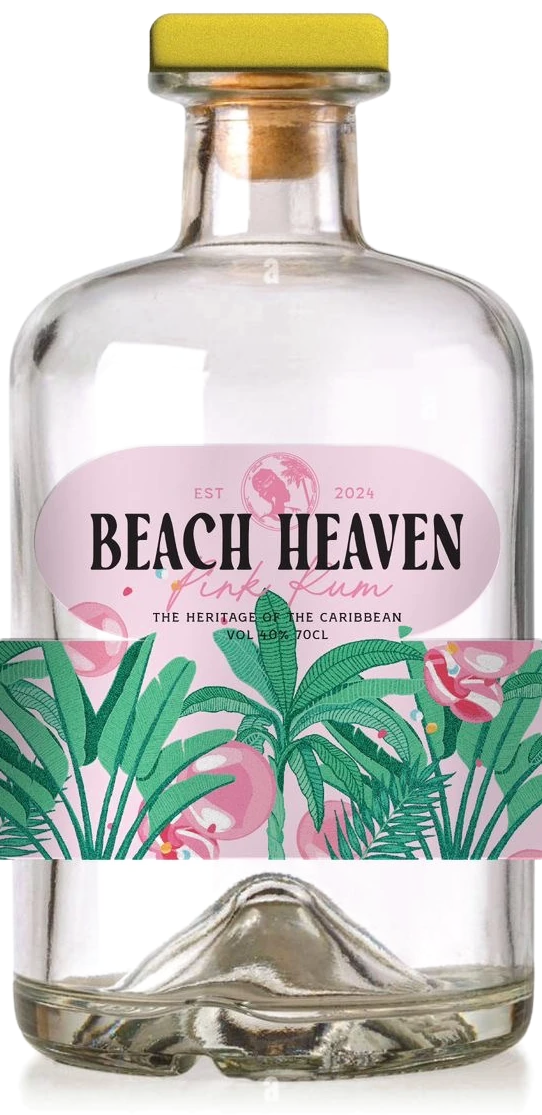
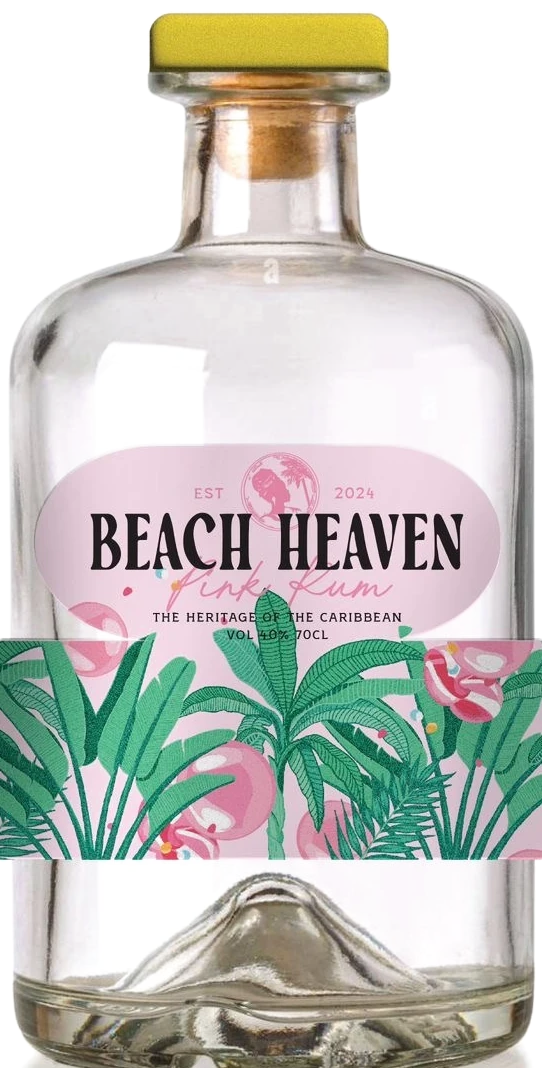
Hero: palm terrace backdrop without cart, big bottle trio
Claude-Session: https://claude.ai/code/session_01JBSJb3fwJRXjsZcwQ8Fu1o

diff --git a/index.html b/index.html
@@ -13,7 +13,7 @@
 <meta name="theme-color" content="#FCF8F4">
 <link rel="icon" href="/favicon.ico?v=2" sizes="any"><link rel="icon" href="/favicon-48.png?v=2" type="image/png" sizes="48x48"><link rel="icon" href="/icon-192.png?v=2" type="image/png" sizes="192x192"><link rel="apple-touch-icon" href="/apple-touch-icon.png?v=2">
 <link rel="preload" href="/assets/fonts/playfair-display-latin-900-normal.woff2" as="font" type="font/woff2" crossorigin>
-<link rel="stylesheet" href="/assets/css/site.css?v=16">
+<link rel="stylesheet" href="/assets/css/site.css?v=18">
 <script>try{var v=localStorage.getItem("bh_age_ok")||sessionStorage.getItem("bh_age_ok");if(!(v&&parseInt(v,10)>Date.now()))document.documentElement.classList.add("needs-gate")}catch(e){document.documentElement.classList.add("needs-gate")}</script>
 <script type="application/ld+json">{"@context":"https://schema.org","@type":"Organization","name":"Beach Heaven","url":"https://beachheavenrum.com/","logo":"https://beachheavenrum.com/assets/img/wordmark.png","foundingDate":"2025"}</script>
 </head>
@@ -63,9 +63,9 @@
     <div class="cta"><a class="btn" href="#blends">Meet the blends</a><a class="btn alt" href="/wholesale/">Wholesale enquiries</a></div>
   </div>
   <div class="trio" aria-hidden="false">
-    <div class="bottle b1"><img class="bimg " src="/assets/img/bottle-pink.webp?v=16" width="542" height="1115" alt="Beach Heaven Pink Dream rum, 70 cl bottle"></div>
-    <div class="bottle b2"><img class="bimg " src="/assets/img/bottle-lychee.webp?v=16" width="542" height="1115" alt="Beach Heaven Lychee Bliss rum, 70 cl bottle"></div>
-    <div class="bottle b3"><img class="bimg " src="/assets/img/bottle-spiced.webp?v=16" width="542" height="1115" alt="Beach Heaven Spiced Velvet rum, 70 cl bottle"></div>
+    <div class="bottle b1"><img class="bimg " src="/assets/img/bottle-pink.webp?v=18" width="542" height="1068" alt="Beach Heaven Pink Dream rum, 70 cl bottle"></div>
+    <div class="bottle b2"><img class="bimg " src="/assets/img/bottle-lychee.webp?v=18" width="542" height="1068" alt="Beach Heaven Lychee Bliss rum, 70 cl bottle"></div>
+    <div class="bottle b3"><img class="bimg " src="/assets/img/bottle-spiced.webp?v=18" width="542" height="1068" alt="Beach Heaven Spiced Velvet rum, 70 cl bottle"></div>
     <img class="nuts" src="/assets/img/coconuts.svg" alt="" aria-hidden="true">
   </div>
 </div><div class="wave w-cream" aria-hidden="true"></div></section>
@@ -75,15 +75,15 @@
   <p>Each blend has its own colour, flavour and label. All three are 37.5% vol. in a 70 cl bottle.</p></div>
   <div class="cards">
 <a class="card pink" href="/pink-dream/">
-  <div class="art" style="background-image:linear-gradient(180deg,#F9BFDD00 55%,#F9BFDD 100%),url(/assets/img/tile-pink.jpg)"><img class="bimg " src="/assets/img/bottle-pink.webp?v=16" width="542" height="1115" alt="Beach Heaven Pink Dream rum, 70 cl bottle"></div>
+  <div class="art" style="background-image:linear-gradient(180deg,#F9BFDD00 55%,#F9BFDD 100%),url(/assets/img/tile-pink.jpg)"><img class="bimg " src="/assets/img/bottle-pink.webp?v=18" width="542" height="1068" alt="Beach Heaven Pink Dream rum, 70 cl bottle"></div>
   <div class="body"><p class="tag">Rum-based tropical spirit drink</p><h3>Pink Dream</h3><p>Hibiscus-led, floral and softly sweet.</p><span class="more">Discover &rarr;</span></div>
 </a>
 <a class="card lychee" href="/lychee-bliss/">
-  <div class="art" style="background-image:linear-gradient(180deg,#F9AF8F00 55%,#F9AF8F 100%),url(/assets/img/tile-lychee.jpg)"><img class="bimg " src="/assets/img/bottle-lychee.webp?v=16" width="542" height="1115" alt="Beach Heaven Lychee Bliss rum, 70 cl bottle"></div>
+  <div class="art" style="background-image:linear-gradient(180deg,#F9AF8F00 55%,#F9AF8F 100%),url(/assets/img/tile-lychee.jpg)"><img class="bimg " src="/assets/img/bottle-lychee.webp?v=18" width="542" height="1068" alt="Beach Heaven Lychee Bliss rum, 70 cl bottle"></div>
   <div class="body"><p class="tag">Rum-based tropical spirit drink</p><h3>Lychee Bliss</h3><p>Ripe lychee, bright citrus and a crisp finish.</p><span class="more">Discover &rarr;</span></div>
 </a>
 <a class="card spiced" href="/spiced-velvet/">
-  <div class="art" style="background-image:linear-gradient(180deg,#96DBC700 55%,#96DBC7 100%),url(/assets/img/tile-spiced.jpg)"><img class="bimg " src="/assets/img/bottle-spiced.webp?v=16" width="542" height="1115" alt="Beach Heaven Spiced Velvet rum, 70 cl bottle"></div>
+  <div class="art" style="background-image:linear-gradient(180deg,#96DBC700 55%,#96DBC7 100%),url(/assets/img/tile-spiced.jpg)"><img class="bimg " src="/assets/img/bottle-spiced.webp?v=18" width="542" height="1068" alt="Beach Heaven Spiced Velvet rum, 70 cl bottle"></div>
   <div class="body"><p class="tag">Rum-based tropical spirit drink</p><h3>Spiced Velvet</h3><p>Deep amber, smooth, with orange and lime brightness.</p><span class="more">Discover &rarr;</span></div>
 </a>
   </div>
@@ -158,5 +158,5 @@
   </div>
   <div class="legal"><span>Enjoy responsibly. For adults of legal drinking age only. Beach Heaven is a product of Kroonbrau BV, Amsterdam.</span><span>&copy; 2026 Beach Heaven</span></div>
 </div></footer>
-<script src="/assets/js/site.js?v=16" defer></script>
+<script src="/assets/js/site.js?v=18" defer></script>
 </body></html>

diff --git a/lychee-bliss/index.html b/lychee-bliss/index.html
@@ -13,7 +13,7 @@
 <meta name="theme-color" content="#FCF8F4">
 <link rel="icon" href="/favicon.ico?v=2" sizes="any"><link rel="icon" href="/favicon-48.png?v=2" type="image/png" sizes="48x48"><link rel="icon" href="/icon-192.png?v=2" type="image/png" sizes="192x192"><link rel="apple-touch-icon" href="/apple-touch-icon.png?v=2">
 <link rel="preload" href="/assets/fonts/playfair-display-latin-900-normal.woff2" as="font" type="font/woff2" crossorigin>
-<link rel="stylesheet" href="/assets/css/site.css?v=16">
+<link rel="stylesheet" href="/assets/css/site.css?v=18">
 <script>try{var v=localStorage.getItem("bh_age_ok")||sessionStorage.getItem("bh_age_ok");if(!(v&&parseInt(v,10)>Date.now()))document.documentElement.classList.add("needs-gate")}catch(e){document.documentElement.classList.add("needs-gate")}</script>
 <script type="application/ld+json">{"@context":"https://schema.org","@type":"Organization","name":"Beach Heaven","url":"https://beachheavenrum.com/","logo":"https://beachheavenrum.com/assets/img/wordmark.png","foundingDate":"2025"}</script>
 </head>
@@ -63,7 +63,7 @@
     <ul class="chips"><li>37.5% vol.</li><li>70 cl</li><li>Lychee</li><li>Lemon</li><li>Lime</li><li>Cucumber</li><li>Ginger</li></ul>
     <div class="cta" style="display:flex;gap:14px;flex-wrap:wrap"><a class="btn" href="/wholesale/">Wholesale enquiry</a><a class="btn alt" href="#others">Other blends</a></div>
   </div>
-  <div class="sku-art"><div class="bg" style="background-image:linear-gradient(180deg,#F9AF8F33,#F9AF8F00 60%),url(/assets/img/tile-lychee.jpg)"></div><img class="bimg " src="/assets/img/bottle-lychee.webp?v=16" width="542" height="1115" alt="Beach Heaven Lychee Bliss rum, 70 cl bottle"></div>
+  <div class="sku-art"><div class="bg" style="background-image:linear-gradient(180deg,#F9AF8F33,#F9AF8F00 60%),url(/assets/img/tile-lychee.jpg)"></div><img class="bimg " src="/assets/img/bottle-lychee.webp?v=18" width="542" height="1068" alt="Beach Heaven Lychee Bliss rum, 70 cl bottle"></div>
 </div><div class="wave w-cream" aria-hidden="true"></div></section>
 
 <section><div class="wrap detail">
@@ -84,11 +84,11 @@
   <div class="sec-head"><p class="eyebrow">Keep exploring</p><h2>The other blends.</h2></div>
   <div class="cards">
 <a class="card pink" href="/pink-dream/">
-  <div class="art" style="background-image:linear-gradient(180deg,#F9BFDD00 55%,#F9BFDD 100%),url(/assets/img/tile-pink.jpg)"><img class="bimg " src="/assets/img/bottle-pink.webp?v=16" width="542" height="1115" alt="Beach Heaven Pink Dream rum, 70 cl bottle"></div>
+  <div class="art" style="background-image:linear-gradient(180deg,#F9BFDD00 55%,#F9BFDD 100%),url(/assets/img/tile-pink.jpg)"><img class="bimg " src="/assets/img/bottle-pink.webp?v=18" width="542" height="1068" alt="Beach Heaven Pink Dream rum, 70 cl bottle"></div>
   <div class="body"><p class="tag">Rum-based tropical spirit drink</p><h3>Pink Dream</h3><p>Hibiscus-led, floral and softly sweet.</p><span class="more">Discover &rarr;</span></div>
 </a>
 <a class="card spiced" href="/spiced-velvet/">
-  <div class="art" style="background-image:linear-gradient(180deg,#96DBC700 55%,#96DBC7 100%),url(/assets/img/tile-spiced.jpg)"><img class="bimg " src="/assets/img/bottle-spiced.webp?v=16" width="542" height="1115" alt="Beach Heaven Spiced Velvet rum, 70 cl bottle"></div>
+  <div class="art" style="background-image:linear-gradient(180deg,#96DBC700 55%,#96DBC7 100%),url(/assets/img/tile-spiced.jpg)"><img class="bimg " src="/assets/img/bottle-spiced.webp?v=18" width="542" height="1068" alt="Beach Heaven Spiced Velvet rum, 70 cl bottle"></div>
   <div class="body"><p class="tag">Rum-based tropical spirit drink</p><h3>Spiced Velvet</h3><p>Deep amber, smooth, with orange and lime brightness.</p><span class="more">Discover &rarr;</span></div>
 </a>
   </div>
@@ -104,5 +104,5 @@
   </div>
   <div class="legal"><span>Enjoy responsibly. For adults of legal drinking age only. Beach Heaven is a product of Kroonbrau BV, Amsterdam.</span><span>&copy; 2026 Beach Heaven</span></div>
 </div></footer>
-<script src="/assets/js/site.js?v=16" defer></script>
+<script src="/assets/js/site.js?v=18" defer></script>
 </body></html>

diff --git a/pink-dream/index.html b/pink-dream/index.html
@@ -13,7 +13,7 @@
 <meta name="theme-color" content="#FCF8F4">
 <link rel="icon" href="/favicon.ico?v=2" sizes="any"><link rel="icon" href="/favicon-48.png?v=2" type="image/png" sizes="48x48"><link rel="icon" href="/icon-192.png?v=2" type="image/png" sizes="192x192"><link rel="apple-touch-icon" href="/apple-touch-icon.png?v=2">
 <link rel="preload" href="/assets/fonts/playfair-display-latin-900-normal.woff2" as="font" type="font/woff2" crossorigin>
-<link rel="stylesheet" href="/assets/css/site.css?v=16">
+<link rel="stylesheet" href="/assets/css/site.css?v=18">
 <script>try{var v=localStorage.getItem("bh_age_ok")||sessionStorage.getItem("bh_age_ok");if(!(v&&parseInt(v,10)>Date.now()))document.documentElement.classList.add("needs-gate")}catch(e){document.documentElement.classList.add("needs-gate")}</script>
 <script type="application/ld+json">{"@context":"https://schema.org","@type":"Organization","name":"Beach Heaven","url":"https://beachheavenrum.com/","logo":"https://beachheavenrum.com/assets/img/wordmark.png","foundingDate":"2025"}</script>
 </head>
@@ -63,7 +63,7 @@
     <ul class="chips"><li>37.5% vol.</li><li>70 cl</li><li>Hibiscus</li><li>Grapefruit</li><li>Blueberry</li></ul>
     <div class="cta" style="display:flex;gap:14px;flex-wrap:wrap"><a class="btn" href="/wholesale/">Wholesale enquiry</a><a class="btn alt" href="#others">Other blends</a></div>
   </div>
-  <div class="sku-art"><div class="bg" style="background-image:linear-gradient(180deg,#F9BFDD33,#F9BFDD00 60%),url(/assets/img/tile-pink.jpg)"></div><img class="bimg " src="/assets/img/bottle-pink.webp?v=16" width="542" height="1115" alt="Beach Heaven Pink Dream rum, 70 cl bottle"></div>
+  <div class="sku-art"><div class="bg" style="background-image:linear-gradient(180deg,#F9BFDD33,#F9BFDD00 60%),url(/assets/img/tile-pink.jpg)"></div><img class="bimg " src="/assets/img/bottle-pink.webp?v=18" width="542" height="1068" alt="Beach Heaven Pink Dream rum, 70 cl bottle"></div>
 </div><div class="wave w-cream" aria-hidden="true"></div></section>
 
 <section><div class="wrap detail">
@@ -84,11 +84,11 @@
   <div class="sec-head"><p class="eyebrow">Keep exploring</p><h2>The other blends.</h2></div>
   <div class="cards">
 <a class="card lychee" href="/lychee-bliss/">
-  <div class="art" style="background-image:linear-gradient(180deg,#F9AF8F00 55%,#F9AF8F 100%),url(/assets/img/tile-lychee.jpg)"><img class="bimg " src="/assets/img/bottle-lychee.webp?v=16" width="542" height="1115" alt="Beach Heaven Lychee Bliss rum, 70 cl bottle"></div>
+  <div class="art" style="background-image:linear-gradient(180deg,#F9AF8F00 55%,#F9AF8F 100%),url(/assets/img/tile-lychee.jpg)"><img class="bimg " src="/assets/img/bottle-lychee.webp?v=18" width="542" height="1068" alt="Beach Heaven Lychee Bliss rum, 70 cl bottle"></div>
   <div class="body"><p class="tag">Rum-based tropical spirit drink</p><h3>Lychee Bliss</h3><p>Ripe lychee, bright citrus and a crisp finish.</p><span class="more">Discover &rarr;</span></div>
 </a>
 <a class="card spiced" href="/spiced-velvet/">
-  <div class="art" style="background-image:linear-gradient(180deg,#96DBC700 55%,#96DBC7 100%),url(/assets/img/tile-spiced.jpg)"><img class="bimg " src="/assets/img/bottle-spiced.webp?v=16" width="542" height="1115" alt="Beach Heaven Spiced Velvet rum, 70 cl bottle"></div>
+  <div class="art" style="background-image:linear-gradient(180deg,#96DBC700 55%,#96DBC7 100%),url(/assets/img/tile-spiced.jpg)"><img class="bimg " src="/assets/img/bottle-spiced.webp?v=18" width="542" height="1068" alt="Beach Heaven Spiced Velvet rum, 70 cl bottle"></div>
   <div class="body"><p class="tag">Rum-based tropical spirit drink</p><h3>Spiced Velvet</h3><p>Deep amber, smooth, with orange and lime brightness.</p><span class="more">Discover &rarr;</span></div>
 </a>
   </div>
@@ -104,5 +104,5 @@
   </div>
   <div class="legal"><span>Enjoy responsibly. For adults of legal drinking age only. Beach Heaven is a product of Kroonbrau BV, Amsterdam.</span><span>&copy; 2026 Beach Heaven</span></div>
 </div></footer>
-<script src="/assets/js/site.js?v=16" defer></script>
+<script src="/assets/js/site.js?v=18" defer></script>
 </body></html>

diff --git a/spiced-velvet/index.html b/spiced-velvet/index.html
@@ -13,7 +13,7 @@
 <meta name="theme-color" content="#FCF8F4">
 <link rel="icon" href="/favicon.ico?v=2" sizes="any"><link rel="icon" href="/favicon-48.png?v=2" type="image/png" sizes="48x48"><link rel="icon" href="/icon-192.png?v=2" type="image/png" sizes="192x192"><link rel="apple-touch-icon" href="/apple-touch-icon.png?v=2">
 <link rel="preload" href="/assets/fonts/playfair-display-latin-900-normal.woff2" as="font" type="font/woff2" crossorigin>
-<link rel="stylesheet" href="/assets/css/site.css?v=16">
+<link rel="stylesheet" href="/assets/css/site.css?v=18">
 <script>try{var v=localStorage.getItem("bh_age_ok")||sessionStorage.getItem("bh_age_ok");if(!(v&&parseInt(v,10)>Date.now()))document.documentElement.classList.add("needs-gate")}catch(e){document.documentElement.classList.add("needs-gate")}</script>
 <script type="application/ld+json">{"@context":"https://schema.org","@type":"Organization","name":"Beach Heaven","url":"https://beachheavenrum.com/","logo":"https://beachheavenrum.com/assets/img/wordmark.png","foundingDate":"2025"}</script>
 </head>
@@ -63,7 +63,7 @@
     <ul class="chips"><li>37.5% vol.</li><li>70 cl</li><li>Orange</li><li>Lime</li></ul>
     <div class="cta" style="display:flex;gap:14px;flex-wrap:wrap"><a class="btn" href="/wholesale/">Wholesale enquiry</a><a class="btn alt" href="#others">Other blends</a></div>
   </div>
-  <div class="sku-art"><div class="bg" style="background-image:linear-gradient(180deg,#96DBC733,#96DBC700 60%),url(/assets/img/tile-spiced.jpg)"></div><img class="bimg " src="/assets/img/bottle-spiced.webp?v=16" width="542" height="1115" alt="Beach Heaven Spiced Velvet rum, 70 cl bottle"></div>
+  <div class="sku-art"><div class="bg" style="background-image:linear-gradient(180deg,#96DBC733,#96DBC700 60%),url(/assets/img/tile-spiced.jpg)"></div><img class="bimg " src="/assets/img/bottle-spiced.webp?v=18" width="542" height="1068" alt="Beach Heaven Spiced Velvet rum, 70 cl bottle"></div>
 </div><div class="wave w-cream" aria-hidden="true"></div></section>
 
 <section><div class="wrap detail">
@@ -84,11 +84,11 @@
   <div class="sec-head"><p class="eyebrow">Keep exploring</p><h2>The other blends.</h2></div>
   <div class="cards">
 <a class="card pink" href="/pink-dream/">
-  <div class="art" style="background-image:linear-gradient(180deg,#F9BFDD00 55%,#F9BFDD 100%),url(/assets/img/tile-pink.jpg)"><img class="bimg " src="/assets/img/bottle-pink.webp?v=16" width="542" height="1115" alt="Beach Heaven Pink Dream rum, 70 cl bottle"></div>
+  <div class="art" style="background-image:linear-gradient(180deg,#F9BFDD00 55%,#F9BFDD 100%),url(/assets/img/tile-pink.jpg)"><img class="bimg " src="/assets/img/bottle-pink.webp?v=18" width="542" height="1068" alt="Beach Heaven Pink Dream rum, 70 cl bottle"></div>
   <div class="body"><p class="tag">Rum-based tropical spirit drink</p><h3>Pink Dream</h3><p>Hibiscus-led, floral and softly sweet.</p><span class="more">Discover &rarr;</span></div>
 </a>
 <a class="card lychee" href="/lychee-bliss/">
-  <div class="art" style="background-image:linear-gradient(180deg,#F9AF8F00 55%,#F9AF8F 100%),url(/assets/img/tile-lychee.jpg)"><img class="bimg " src="/assets/img/bottle-lychee.webp?v=16" width="542" height="1115" alt="Beach Heaven Lychee Bliss rum, 70 cl bottle"></div>
+  <div class="art" style="background-image:linear-gradient(180deg,#F9AF8F00 55%,#F9AF8F 100%),url(/assets/img/tile-lychee.jpg)"><img class="bimg " src="/assets/img/bottle-lychee.webp?v=18" width="542" height="1068" alt="Beach Heaven Lychee Bliss rum, 70 cl bottle"></div>
   <div class="body"><p class="tag">Rum-based tropical spirit drink</p><h3>Lychee Bliss</h3><p>Ripe lychee, bright citrus and a crisp finish.</p><span class="more">Discover &rarr;</span></div>
 </a>
   </div>
@@ -104,5 +104,5 @@
   </div>
   <div class="legal"><span>Enjoy responsibly. For adults of legal drinking age only. Beach Heaven is a product of Kroonbrau BV, Amsterdam.</span><span>&copy; 2026 Beach Heaven</span></div>
 </div></footer>
-<script src="/assets/js/site.js?v=16" defer></script>
+<script src="/assets/js/site.js?v=18" defer></script>
 </body></html>

diff --git a/our-rums/index.html b/our-rums/index.html
@@ -13,7 +13,7 @@
 <meta name="theme-color" content="#FCF8F4">
 <link rel="icon" href="/favicon.ico?v=2" sizes="any"><link rel="icon" href="/favicon-48.png?v=2" type="image/png" sizes="48x48"><link rel="icon" href="/icon-192.png?v=2" type="image/png" sizes="192x192"><link rel="apple-touch-icon" href="/apple-touch-icon.png?v=2">
 <link rel="preload" href="/assets/fonts/playfair-display-latin-900-normal.woff2" as="font" type="font/woff2" crossorigin>
-<link rel="stylesheet" href="/assets/css/site.css?v=16">
+<link rel="stylesheet" href="/assets/css/site.css?v=18">
 <script>try{var v=localStorage.getItem("bh_age_ok")||sessionStorage.getItem("bh_age_ok");if(!(v&&parseInt(v,10)>Date.now()))document.documentElement.classList.add("needs-gate")}catch(e){document.documentElement.classList.add("needs-gate")}</script>
 <script type="application/ld+json">{"@context":"https://schema.org","@type":"Organization","name":"Beach Heaven","url":"https://beachheavenrum.com/","logo":"https://beachheavenrum.com/assets/img/wordmark.png","foundingDate":"2025"}</script>
 </head>
@@ -58,7 +58,7 @@
 <section class="page-hero"><div class="wrap"><p class="eyebrow">Our Rums</p><h1>Three blends, three moods.</h1>
 <p>Beach Heaven is a rum-based tropical spirit drink, bottled at 37.5% vol. in 70 cl. Pick your colour.</p></div></section>
 <section class="band pink"><div class="wrap">
-  <div class="sku-art"><div class="bg" style="background-image:linear-gradient(180deg,#F9BFDD33,#F9BFDD00 60%),url(/assets/img/tile-pink.jpg)"></div><img class="bimg " src="/assets/img/bottle-pink.webp?v=16" width="542" height="1115" alt="Beach Heaven Pink Dream rum, 70 cl bottle"></div>
+  <div class="sku-art"><div class="bg" style="background-image:linear-gradient(180deg,#F9BFDD33,#F9BFDD00 60%),url(/assets/img/tile-pink.jpg)"></div><img class="bimg " src="/assets/img/bottle-pink.webp?v=18" width="542" height="1068" alt="Beach Heaven Pink Dream rum, 70 cl bottle"></div>
   <div>
     <p class="cat">Rum-based tropical spirit drink</p>
     <h2>Pink Dream</h2>
@@ -69,7 +69,7 @@
   </div>
 </div></section>
 <section class="band lychee"><div class="wrap">
-  <div class="sku-art"><div class="bg" style="background-image:linear-gradient(180deg,#F9AF8F33,#F9AF8F00 60%),url(/assets/img/tile-lychee.jpg)"></div><img class="bimg " src="/assets/img/bottle-lychee.webp?v=16" width="542" height="1115" alt="Beach Heaven Lychee Bliss rum, 70 cl bottle"></div>
+  <div class="sku-art"><div class="bg" style="background-image:linear-gradient(180deg,#F9AF8F33,#F9AF8F00 60%),url(/assets/img/tile-lychee.jpg)"></div><img class="bimg " src="/assets/img/bottle-lychee.webp?v=18" width="542" height="1068" alt="Beach Heaven Lychee Bliss rum, 70 cl bottle"></div>
   <div>
     <p class="cat">Rum-based tropical spirit drink</p>
     <h2>Lychee Bliss</h2>
@@ -80,7 +80,7 @@
   </div>
 </div></section>
 <section class="band spiced"><div class="wrap">
-  <div class="sku-art"><div class="bg" style="background-image:linear-gradient(180deg,#96DBC733,#96DBC700 60%),url(/assets/img/tile-spiced.jpg)"></div><img class="bimg " src="/assets/img/bottle-spiced.webp?v=16" width="542" height="1115" alt="Beach Heaven Spiced Velvet rum, 70 cl bottle"></div>
+  <div class="sku-art"><div class="bg" style="background-image:linear-gradient(180deg,#96DBC733,#96DBC700 60%),url(/assets/img/tile-spiced.jpg)"></div><img class="bimg " src="/assets/img/bottle-spiced.webp?v=18" width="542" height="1068" alt="Beach Heaven Spiced Velvet rum, 70 cl bottle"></div>
   <div>
     <p class="cat">Rum-based tropical spirit drink</p>
     <h2>Spiced Velvet</h2>
@@ -101,5 +101,5 @@
   </div>
   <div class="legal"><span>Enjoy responsibly. For adults of legal drinking age only. Beach Heaven is a product of Kroonbrau BV, Amsterdam.</span><span>&copy; 2026 Beach Heaven</span></div>
 </div></footer>
-<script src="/assets/js/site.js?v=16" defer></script>
+<script src="/assets/js/site.js?v=18" defer></script>
 </body></html>

diff --git a/cocktails/lychee-bliss-mojito/index.html b/cocktails/lychee-bliss-mojito/index.html
@@ -13,7 +13,7 @@
 <meta name="theme-color" content="#FCF8F4">
 <link rel="icon" href="/favicon.ico?v=2" sizes="any"><link rel="icon" href="/favicon-48.png?v=2" type="image/png" sizes="48x48"><link rel="icon" href="/icon-192.png?v=2" type="image/png" sizes="192x192"><link rel="apple-touch-icon" href="/apple-touch-icon.png?v=2">
 <link rel="preload" href="/assets/fonts/playfair-display-latin-900-normal.woff2" as="font" type="font/woff2" crossorigin>
-<link rel="stylesheet" href="/assets/css/site.css?v=16">
+<link rel="stylesheet" href="/assets/css/site.css?v=18">
 <script>try{var v=localStorage.getItem("bh_age_ok")||sessionStorage.getItem("bh_age_ok");if(!(v&&parseInt(v,10)>Date.now()))document.documentElement.classList.add("needs-gate")}catch(e){document.documentElement.classList.add("needs-gate")}</script>
 <script type="application/ld+json">{"@context":"https://schema.org","@type":"Organization","name":"Beach Heaven","url":"https://beachheavenrum.com/","logo":"https://beachheavenrum.com/assets/img/wordmark.png","foundingDate":"2025"}</script><script type="application/ld+json">{"@context": "https://schema.org", "@type": "Recipe", "name": "Lychee Bliss Mojito", "description": "Mint, lime and ripe lychee over crushed ice.", "recipeCategory": "Cocktail", "recipeYield": "1 drink", "prepTime": "PT4M", "recipeIngredient": ["50 ml Beach Heaven Lychee Bliss", "25 ml Fresh lime juice", "10 ml Simple syrup", "8 Fresh mint leaves", "Soda water to top", "Crushed ice"], "recipeInstructions": [{"@type": "HowToStep", "text": "Add mint leaves, lime juice and simple syrup to the glass and press the mint gently, without tearing it."}, {"@type": "HowToStep", "text": "Pour in Lychee Bliss."}, {"@type": "HowToStep", "text": "Fill the glass with crushed ice and stir from the bottom up."}, {"@type": "HowToStep", "text": "Top with soda water and add a little more ice on top."}], "author": {"@type": "Organization", "name": "Beach Heaven"}}</script>
 </head>
@@ -98,5 +98,5 @@
   </div>
   <div class="legal"><span>Enjoy responsibly. For adults of legal drinking age only. Beach Heaven is a product of Kroonbrau BV, Amsterdam.</span><span>&copy; 2026 Beach Heaven</span></div>
 </div></footer>
-<script src="/assets/js/site.js?v=16" defer></script>
+<script src="/assets/js/site.js?v=18" defer></script>
 </body></html>

diff --git a/cocktails/spiced-velvet-old-fashioned/index.html b/cocktails/spiced-velvet-old-fashioned/index.html
@@ -13,7 +13,7 @@
 <meta name="theme-color" content="#FCF8F4">
 <link rel="icon" href="/favicon.ico?v=2" sizes="any"><link rel="icon" href="/favicon-48.png?v=2" type="image/png" sizes="48x48"><link rel="icon" href="/icon-192.png?v=2" type="image/png" sizes="192x192"><link rel="apple-touch-icon" href="/apple-touch-icon.png?v=2">
 <link rel="preload" href="/assets/fonts/playfair-display-latin-900-normal.woff2" as="font" type="font/woff2" crossorigin>
-<link rel="stylesheet" href="/assets/css/site.css?v=16">
+<link rel="stylesheet" href="/assets/css/site.css?v=18">
 <script>try{var v=localStorage.getItem("bh_age_ok")||sessionStorage.getItem("bh_age_ok");if(!(v&&parseInt(v,10)>Date.now()))document.documentElement.classList.add("needs-gate")}catch(e){document.documentElement.classList.add("needs-gate")}</script>
 <script type="application/ld+json">{"@context":"https://schema.org","@type":"Organization","name":"Beach Heaven","url":"https://beachheavenrum.com/","logo":"https://beachheavenrum.com/assets/img/wordmark.png","foundingDate":"2025"}</script><script type="application/ld+json">{"@context": "https://schema.org", "@type": "Recipe", "name": "Spiced Velvet Old Fashioned", "description": "A slow, stirred sipper with orange oils.", "recipeCategory": "Cocktail", "recipeYield": "1 drink", "prepTime": "PT3M", "recipeIngredient": ["50 ml Beach Heaven Spiced Velvet", "5 ml Simple syrup", "2 dashes Orange bitters", "1 Large ice cube", "Ice for stirring"], "recipeInstructions": [{"@type": "HowToStep", "text": "Add Spiced Velvet, syrup and bitters to a mixing glass with ice."}, {"@type": "HowToStep", "text": "Stir for 20 to 30 seconds, until the glass is very cold."}, {"@type": "HowToStep", "text": "Strain over a large ice cube in a rocks glass."}, {"@type": "HowToStep", "text": "Squeeze a strip of orange peel over the drink, then drop it in."}], "author": {"@type": "Organization", "name": "Beach Heaven"}}</script>
 </head>
@@ -98,5 +98,5 @@
   </div>
   <div class="legal"><span>Enjoy responsibly. For adults of legal drinking age only. Beach Heaven is a product of Kroonbrau BV, Amsterdam.</span><span>&copy; 2026 Beach Heaven</span></div>
 </div></footer>
-<script src="/assets/js/site.js?v=16" defer></script>
+<script src="/assets/js/site.js?v=18" defer></script>
 </body></html>

diff --git a/cocktails/pink-dream-daiquiri/index.html b/cocktails/pink-dream-daiquiri/index.html
@@ -13,7 +13,7 @@
 <meta name="theme-color" content="#FCF8F4">
 <link rel="icon" href="/favicon.ico?v=2" sizes="any"><link rel="icon" href="/favicon-48.png?v=2" type="image/png" sizes="48x48"><link rel="icon" href="/icon-192.png?v=2" type="image/png" sizes="192x192"><link rel="apple-touch-icon" href="/apple-touch-icon.png?v=2">
 <link rel="preload" href="/assets/fonts/playfair-display-latin-900-normal.woff2" as="font" type="font/woff2" crossorigin>
-<link rel="stylesheet" href="/assets/css/site.css?v=16">
+<link rel="stylesheet" href="/assets/css/site.css?v=18">
 <script>try{var v=localStorage.getItem("bh_age_ok")||sessionStorage.getItem("bh_age_ok");if(!(v&&parseInt(v,10)>Date.now()))document.documentElement.classList.add("needs-gate")}catch(e){document.documentElement.classList.add("needs-gate")}</script>
 <script type="application/ld+json">{"@context":"https://schema.org","@type":"Organization","name":"Beach Heaven","url":"https://beachheavenrum.com/","logo":"https://beachheavenrum.com/assets/img/wordmark.png","foundingDate":"2025"}</script><script type="application/ld+json">{"@context": "https://schema.org", "@type": "Recipe", "name": "Pink Dream Daiquiri", "description": "A short, sharp, pretty daiquiri with a hibiscus-pink blush.", "recipeCategory": "Cocktail", "recipeYield": "1 drink", "prepTime": "PT3M", "recipeIngredient": ["50 ml Beach Heaven Pink Dream", "25 ml Fresh lime juice", "10 ml Simple syrup", "Ice for shaking"], "recipeInstructions": [{"@type": "HowToStep", "text": "Chill a coupe with ice and water."}, {"@type": "HowToStep", "text": "Add Pink Dream, lime juice and simple syrup to a shaker with ice."}, {"@type": "HowToStep", "text": "Shake hard for 10 to 12 seconds."}, {"@type": "HowToStep", "text": "Empty the coupe and double strain the drink into it."}], "author": {"@type": "Organization", "name": "Beach Heaven"}}</script>
 </head>
@@ -98,5 +98,5 @@
   </div>
   <div class="legal"><span>Enjoy responsibly. For adults of legal drinking age only. Beach Heaven is a product of Kroonbrau BV, Amsterdam.</span><span>&copy; 2026 Beach Heaven</span></div>
 </div></footer>
-<script src="/assets/js/site.js?v=16" defer></script>
+<script src="/assets/js/site.js?v=18" defer></script>
 </body></html>

diff --git a/cocktails/lychee-cucumber-cooler/index.html b/cocktails/lychee-cucumber-cooler/index.html
@@ -13,7 +13,7 @@
 <meta name="theme-color" content="#FCF8F4">
 <link rel="icon" href="/favicon.ico?v=2" sizes="any"><link rel="icon" href="/favicon-48.png?v=2" type="image/png" sizes="48x48"><link rel="icon" href="/icon-192.png?v=2" type="image/png" sizes="192x192"><link rel="apple-touch-icon" href="/apple-touch-icon.png?v=2">
 <link rel="preload" href="/assets/fonts/playfair-display-latin-900-normal.woff2" as="font" type="font/woff2" crossorigin>
-<link rel="stylesheet" href="/assets/css/site.css?v=16">
+<link rel="stylesheet" href="/assets/css/site.css?v=18">
 <script>try{var v=localStorage.getItem("bh_age_ok")||sessionStorage.getItem("bh_age_ok");if(!(v&&parseInt(v,10)>Date.now()))document.documentElement.classList.add("needs-gate")}catch(e){document.documentElement.classList.add("needs-gate")}</script>
 <script type="application/ld+json">{"@context":"https://schema.org","@type":"Organization","name":"Beach Heaven","url":"https://beachheavenrum.com/","logo":"https://beachheavenrum.com/assets/img/wordmark.png","foundingDate":"2025"}</script><script type="application/ld+json">{"@context": "https://schema.org", "@type": "Recipe", "name": "Lychee Cucumber Cooler", "description": "Cool cucumber and lime with a floral lychee lift.", "recipeCategory": "Cocktail", "recipeYield": "1 drink", "prepTime": "PT3M", "recipeIngredient": ["50 ml Beach Heaven Lychee Bliss", "20 ml Fresh lime juice", "3 Thin cucumber slices", "100 ml Soda water", "Ice"], "recipeInstructions": [{"@type": "HowToStep", "text": "Add Lychee Bliss, lime juice and two cucumber slices to a shaker with ice."}, {"@type": "HowToStep", "text": "Shake for 10 seconds."}, {"@type": "HowToStep", "text": "Strain over fresh ice in a tall glass."}, {"@type": "HowToStep", "text": "Top with soda water and stir once."}], "author": {"@type": "Organization", "name": "Beach Heaven"}}</script>
 </head>
@@ -98,5 +98,5 @@
   </div>
   <div class="legal"><span>Enjoy responsibly. For adults of legal drinking age only. Beach Heaven is a product of Kroonbrau BV, Amsterdam.</span><span>&copy; 2026 Beach Heaven</span></div>
 </div></footer>
-<script src="/assets/js/site.js?v=16" defer></script>
+<script src="/assets/js/site.js?v=18" defer></script>
 </body></html>

diff --git a/cocktails/pink-dream-and-tonic/index.html b/cocktails/pink-dream-and-tonic/index.html
@@ -13,7 +13,7 @@
 <meta name="theme-color" content="#FCF8F4">
 <link rel="icon" href="/favicon.ico?v=2" sizes="any"><link rel="icon" href="/favicon-48.png?v=2" type="image/png" sizes="48x48"><link rel="icon" href="/icon-192.png?v=2" type="image/png" sizes="192x192"><link rel="apple-touch-icon" href="/apple-touch-icon.png?v=2">
 <link rel="preload" href="/assets/fonts/playfair-display-latin-900-normal.woff2" as="font" type="font/woff2" crossorigin>
-<link rel="stylesheet" href="/assets/css/site.css?v=16">
+<link rel="stylesheet" href="/assets/css/site.css?v=18">
 <script>try{var v=localStorage.getItem("bh_age_ok")||sessionStorage.getItem("bh_age_ok");if(!(v&&parseInt(v,10)>Date.now()))document.documentElement.classList.add("needs-gate")}catch(e){document.documentElement.classList.add("needs-gate")}</script>
 <script type="application/ld+json">{"@context":"https://schema.org","@type":"Organization","name":"Beach Heaven","url":"https://beachheavenrum.com/","logo":"https://beachheavenrum.com/assets/img/wordmark.png","foundingDate":"2025"}</script><script type="application/ld+json">{"@context": "https://schema.org", "@type": "Recipe", "name": "Pink Dream & Tonic", "description": "Long, light and pink. The easiest way into Pink Dream.", "recipeCategory": "Cocktail", "recipeYield": "1 drink", "prepTime": "PT1M", "recipeIngredient": ["50 ml Beach Heaven Pink Dream", "150 ml Chilled tonic water", "1 Grapefruit wedge", "Plenty of ice"], "recipeInstructions": [{"@type": "HowToStep", "text": "Fill a highball glass to the top with ice."}, {"@type": "HowToStep", "text": "Pour in Pink Dream."}, {"@type": "HowToStep", "text": "Top with chilled tonic water and stir once, gently."}, {"@type": "HowToStep", "text": "Squeeze the grapefruit wedge over the drink and drop it in."}], "author": {"@type": "Organization", "name": "Beach Heaven"}}</script>
 </head>
@@ -98,5 +98,5 @@
   </div>
   <div class="legal"><span>Enjoy responsibly. For adults of legal drinking age only. Beach Heaven is a product of Kroonbrau BV, Amsterdam.</span><span>&copy; 2026 Beach Heaven</span></div>
 </div></footer>
-<script src="/assets/js/site.js?v=16" defer></script>
+<script src="/assets/js/site.js?v=18" defer></script>
 </body></html>

diff --git a/cocktails/velvet-libre/index.html b/cocktails/velvet-libre/index.html
@@ -13,7 +13,7 @@
 <meta name="theme-color" content="#FCF8F4">
 <link rel="icon" href="/favicon.ico?v=2" sizes="any"><link rel="icon" href="/favicon-48.png?v=2" type="image/png" sizes="48x48"><link rel="icon" href="/icon-192.png?v=2" type="image/png" sizes="192x192"><link rel="apple-touch-icon" href="/apple-touch-icon.png?v=2">
 <link rel="preload" href="/assets/fonts/playfair-display-latin-900-normal.woff2" as="font" type="font/woff2" crossorigin>
-<link rel="stylesheet" href="/assets/css/site.css?v=16">
+<link rel="stylesheet" href="/assets/css/site.css?v=18">
 <script>try{var v=localStorage.getItem("bh_age_ok")||sessionStorage.getItem("bh_age_ok");if(!(v&&parseInt(v,10)>Date.now()))document.documentElement.classList.add("needs-gate")}catch(e){document.documentElement.classList.add("needs-gate")}</script>
 <script type="application/ld+json">{"@context":"https://schema.org","@type":"Organization","name":"Beach Heaven","url":"https://beachheavenrum.com/","logo":"https://beachheavenrum.com/assets/img/wordmark.png","foundingDate":"2025"}</script><script type="application/ld+json">{"@context": "https://schema.org", "@type": "Recipe", "name": "Velvet Libre", "description": "Our take on the Cuba Libre: spiced rum, cola and plenty of fresh lime.", "recipeCategory": "Cocktail", "recipeYield": "1 drink", "prepTime": "PT2M", "recipeIngredient": ["50 ml Beach Heaven Spiced Velvet", "10 ml Fresh lime juice", "120 ml Chilled cola", "Ice"], "recipeInstructions": [{"@type": "HowToStep", "text": "Fill a tumbler with ice."}, {"@type": "HowToStep", "text": "Add Spiced Velvet and fresh lime juice."}, {"@type": "HowToStep", "text": "Top with cola and stir once, gently."}, {"@type": "HowToStep", "text": "Drop in a squeezed lime wedge."}], "author": {"@type": "Organization", "name": "Beach Heaven"}}</script>
 </head>
@@ -98,5 +98,5 @@
   </div>
   <div class="legal"><span>Enjoy responsibly. For adults of legal drinking age only. Beach Heaven is a product of Kroonbrau BV, Amsterdam.</span><span>&copy; 2026 Beach Heaven</span></div>
 </div></footer>
-<script src="/assets/js/site.js?v=16" defer></script>
+<script src="/assets/js/site.js?v=18" defer></script>
 </body></html>

diff --git a/cocktails/pink-dream-spritz/index.html b/cocktails/pink-dream-spritz/index.html
@@ -13,7 +13,7 @@
 <meta name="theme-color" content="#FCF8F4">
 <link rel="icon" href="/favicon.ico?v=2" sizes="any"><link rel="icon" href="/favicon-48.png?v=2" type="image/png" sizes="48x48"><link rel="icon" href="/icon-192.png?v=2" type="image/png" sizes="192x192"><link rel="apple-touch-icon" href="/apple-touch-icon.png?v=2">
 <link rel="preload" href="/assets/fonts/playfair-display-latin-900-normal.woff2" as="font" type="font/woff2" crossorigin>
-<link rel="stylesheet" href="/assets/css/site.css?v=16">
+<link rel="stylesheet" href="/assets/css/site.css?v=18">
 <script>try{var v=localStorage.getItem("bh_age_ok")||sessionStorage.getItem("bh_age_ok");if(!(v&&parseInt(v,10)>Date.now()))document.documentElement.classList.add("needs-gate")}catch(e){document.documentElement.classList.add("needs-gate")}</script>
 <script type="application/ld+json">{"@context":"https://schema.org","@type":"Organization","name":"Beach Heaven","url":"https://beachheavenrum.com/","logo":"https://beachheavenrum.com/assets/img/wordmark.png","foundingDate":"2025"}</script><script type="application/ld+json">{"@context": "https://schema.org", "@type": "Recipe", "name": "Pink Dream Spritz", "description": "Pink, bubbly and made for long afternoons.", "recipeCategory": "Cocktail", "recipeYield": "1 drink", "prepTime": "PT2M", "recipeIngredient": ["40 ml Beach Heaven Pink Dream", "80 ml Chilled sparkling wine", "40 ml Soda water", "1 Orange slice", "Ice"], "recipeInstructions": [{"@type": "HowToStep", "text": "Fill a wine glass with ice."}, {"@type": "HowToStep", "text": "Add Pink Dream, then the sparkling wine."}, {"@type": "HowToStep", "text": "Top with soda water and stir once."}, {"@type": "HowToStep", "text": "Add the orange slice."}], "author": {"@type": "Organization", "name": "Beach Heaven"}}</script>
 </head>
@@ -98,5 +98,5 @@
   </div>
   <div class="legal"><span>Enjoy responsibly. For adults of legal drinking age only. Beach Heaven is a product of Kroonbrau BV, Amsterdam.</span><span>&copy; 2026 Beach Heaven</span></div>
 </div></footer>
-<script src="/assets/js/site.js?v=16" defer></script>
+<script src="/assets/js/site.js?v=18" defer></script>
 </body></html>
